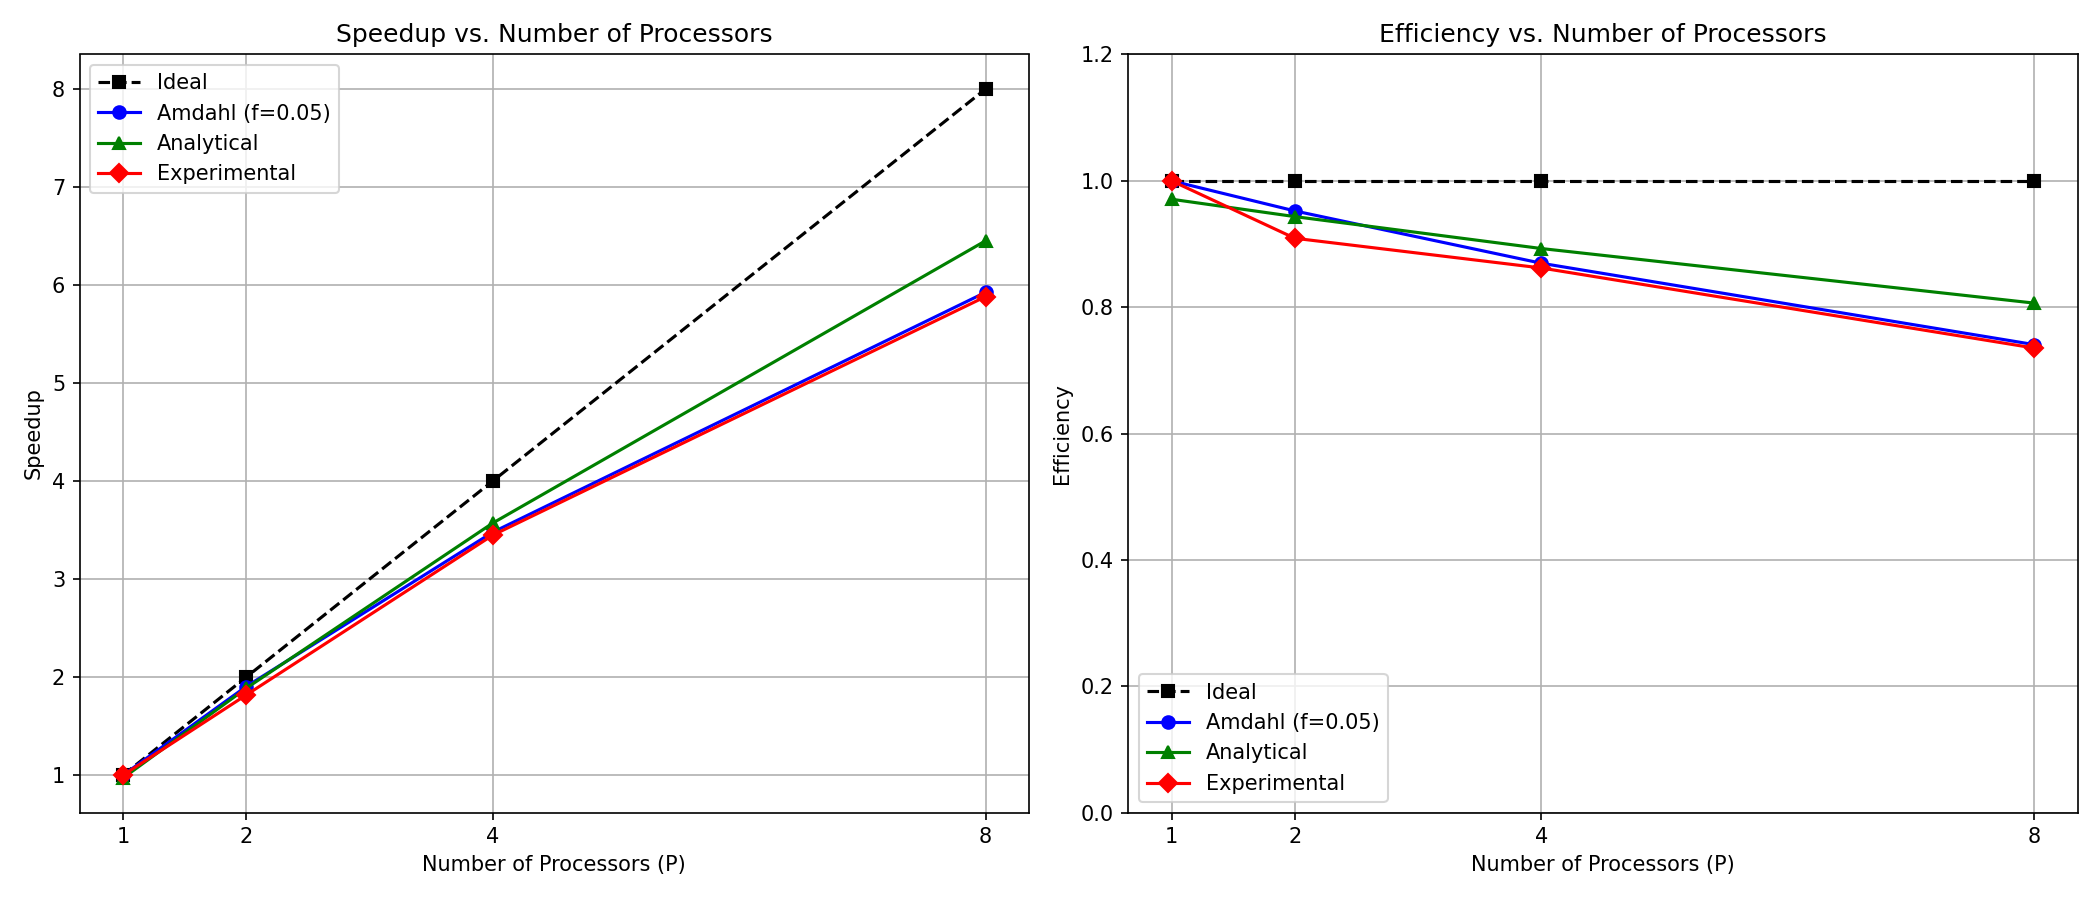
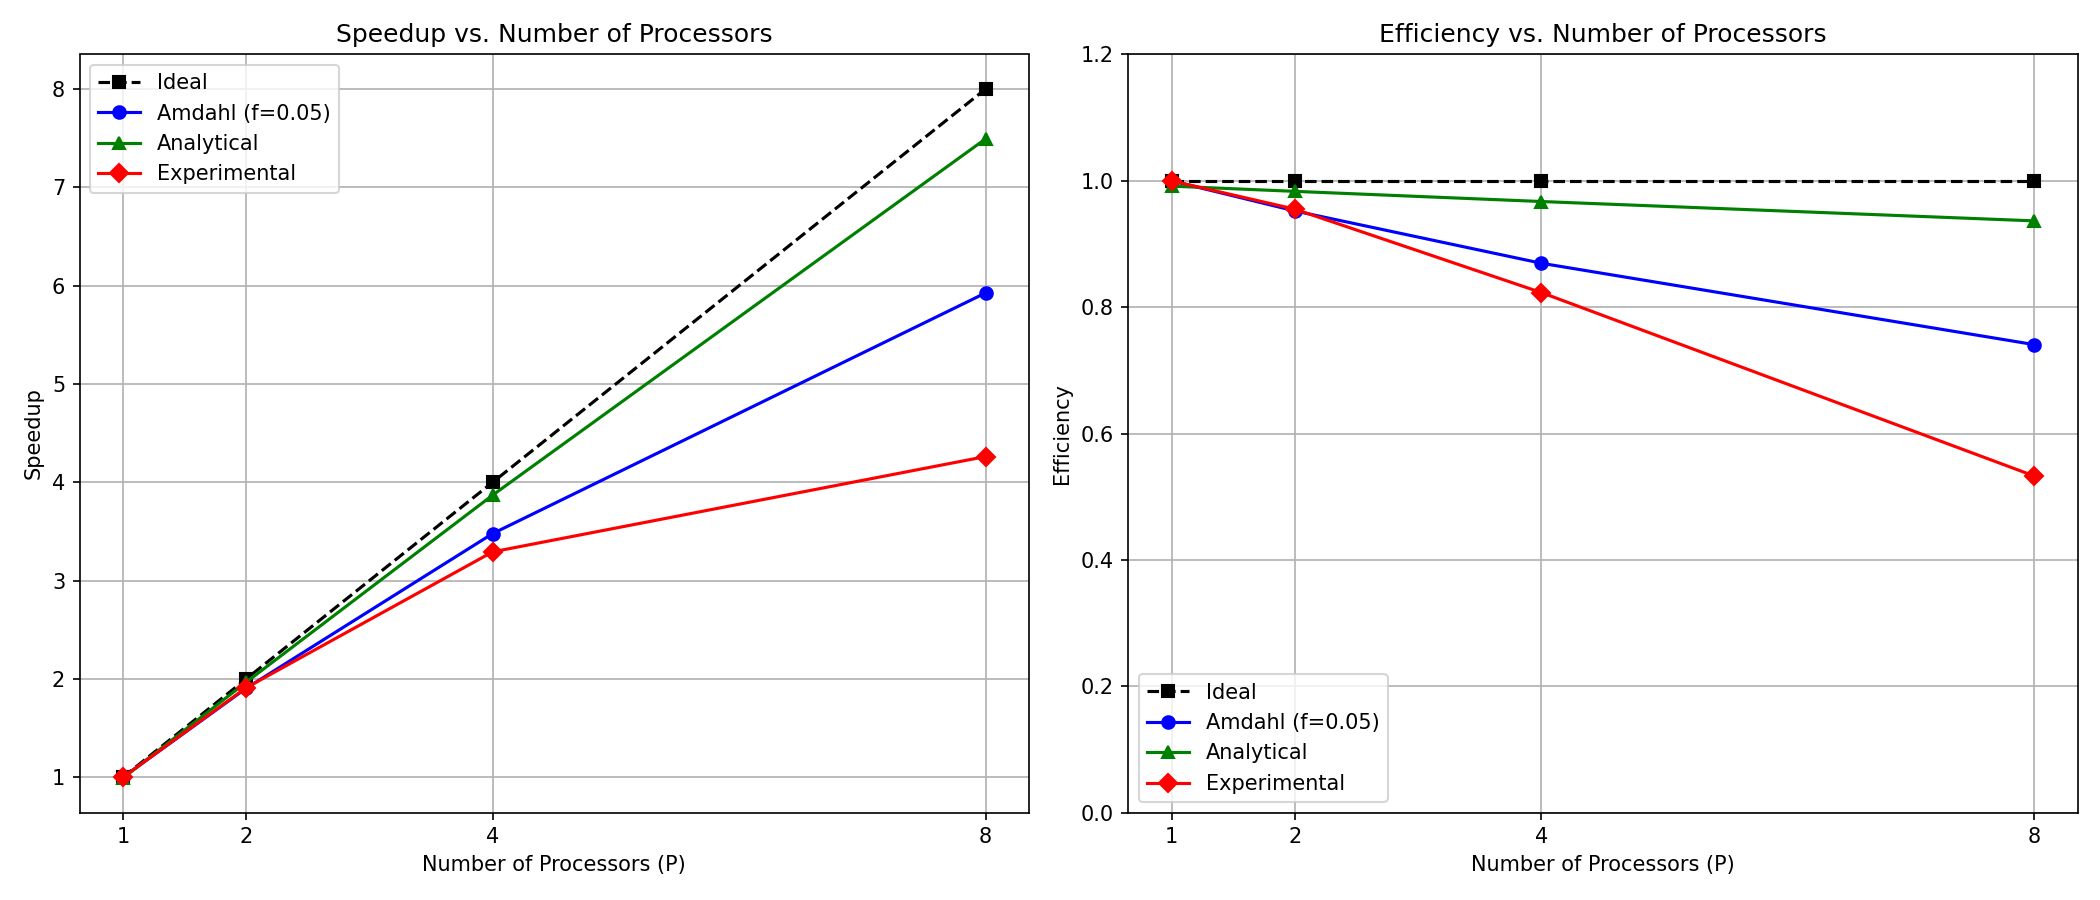
Remove notes and update performance plotting script with new metrics and improved visualization

diff --git a/plot_performance.py b/plot_performance.py
@@ -1,64 +1,43 @@
 import numpy as np
 import matplotlib.pyplot as plt
-
-# ===== ใส่ค่า runtime จากการทดลองของคุณ =====
-T_seq = 10.0   # เวลา sequential (วินาที) - แก้ตามผลจริง
-
-# Experimental runtimes [P=1, P=2, P=4, P=8]
-T_exp = [10.0, 5.5, 2.9, 1.7]   # แก้ตามผลจริง
-
-# ============================================
-P_values = [1, 2, 4, 8]
-
-# --- Speedup Experimental ---
-S_exp = [T_seq / t for t in T_exp]
-
-# --- Ideal Speedup ---
-S_ideal = P_values
-
-# --- Amdahl's Law ---
-# ประมาณ f (fraction sequential) จาก overhead เช่น 5%
-f = 0.05
-S_amdahl = [1 / (f + (1 - f) / p) for p in P_values]
-
-# --- Analytical Model ---
-# T_parallel = T_comm + T_comp/p  (สมมติ T_comm = 0.3s คงที่)
-T_comm = 0.3   # overhead การสื่อสาร (แก้ตามผลจริง)
-S_analytical = [T_seq / (T_comm + T_seq / p) for p in P_values]
-
-# ===== Plot Speedup =====
+ 
+T_base = 2.621   # parallel P=1 baseline
+T_seq  = 5.912   # sequential (for analytical/Amdahl model input)
+T_exp  = [2.621, 1.372, 0.796, 0.615]
+T_comm = 0.05
+f      = 0.05
+P      = [1, 2, 4, 8]
+ 
+S_exp        = [T_base / t for t in T_exp]
+S_ideal      = P
+S_amdahl     = [1 / (f + (1-f)/p) for p in P]
+S_analytical = [T_seq / (T_comm + T_seq/p) for p in P]
+ 
+E_exp        = [s/p for s,p in zip(S_exp, P)]
+E_ideal      = [1.0]*4
+E_amdahl     = [s/p for s,p in zip(S_amdahl, P)]
+E_analytical = [s/p for s,p in zip(S_analytical, P)]
+ 
 fig, (ax1, ax2) = plt.subplots(1, 2, figsize=(14, 6))
-
-ax1.plot(P_values, S_ideal,    'k--',  marker='s', label='Ideal')
-ax1.plot(P_values, S_amdahl,   'b-o',  label=f"Amdahl (f={f})")
-ax1.plot(P_values, S_analytical,'g-^', label='Analytical')
-ax1.plot(P_values, S_exp,      'r-D',  label='Experimental')
+ 
+ax1.plot(P, S_ideal,      'k--s', label='Ideal')
+ax1.plot(P, S_amdahl,     'b-o',  label='Amdahl (f=0.05)')
+ax1.plot(P, S_analytical, 'g-^',  label='Analytical')
+ax1.plot(P, S_exp,        'r-D',  label='Experimental')
 ax1.set_xlabel('Number of Processors (P)')
 ax1.set_ylabel('Speedup')
 ax1.set_title('Speedup vs. Number of Processors')
-ax1.legend()
-ax1.grid(True)
-ax1.set_xticks(P_values)
-
-# ===== Plot Efficiency =====
-E_ideal      = [1.0] * len(P_values)
-E_amdahl     = [s / p for s, p in zip(S_amdahl, P_values)]
-E_analytical = [s / p for s, p in zip(S_analytical, P_values)]
-E_exp        = [s / p for s, p in zip(S_exp, P_values)]
-
-ax2.plot(P_values, E_ideal,      'k--',  marker='s', label='Ideal')
-ax2.plot(P_values, E_amdahl,     'b-o',  label=f"Amdahl (f={f})")
-ax2.plot(P_values, E_analytical, 'g-^',  label='Analytical')
-ax2.plot(P_values, E_exp,        'r-D',  label='Experimental')
+ax1.set_xticks(P); ax1.legend(); ax1.grid(True)
+ 
+ax2.plot(P, E_ideal,      'k--s', label='Ideal')
+ax2.plot(P, E_amdahl,     'b-o',  label='Amdahl (f=0.05)')
+ax2.plot(P, E_analytical, 'g-^',  label='Analytical')
+ax2.plot(P, E_exp,        'r-D',  label='Experimental')
 ax2.set_xlabel('Number of Processors (P)')
 ax2.set_ylabel('Efficiency')
 ax2.set_title('Efficiency vs. Number of Processors')
-ax2.legend()
-ax2.grid(True)
-ax2.set_xticks(P_values)
-ax2.set_ylim(0, 1.2)
-
+ax2.set_xticks(P); ax2.set_ylim(0, 1.2); ax2.legend(); ax2.grid(True)
+ 
 plt.tight_layout()
 plt.savefig('performance_graphs.png', dpi=150)
 plt.show()
-print("Saved: performance_graphs.png")

diff --git a/README.md b/README.md
@@ -1,0 +1,80 @@
+# Parallel N-Queen Solver (MPI + OpenMP)
+
+## Overview
+This project implements a parallel solver for the N-Queen problem using a hybrid MPI + OpenMP model. The goal is to explore the performance and scalability of parallel backtracking algorithms in HPC environments.
+
+**Compares:**
+- Sequential implementation
+- Hybrid parallel implementation (MPI + OpenMP)
+
+**Performance Analysis:**
+- Speedup
+- Parallel efficiency
+- Amdahl's Law
+- Analytical performance model
+
+
+## File Description
+| File | Description |
+|------|-------------|
+| `nqueens_sequential.c` | Sequential backtracking implementation |
+| `nqueens_parallel.c` | Hybrid MPI + OpenMP implementation |
+| `run_experiments.sh` | Script for running experiments |
+| `Parallel_NQueen_Report.pdf` | Final project report |
+| `README.md` | Project documentation |
+
+## Compilation
+### Sequential Version
+```bash
+gcc -O3 nqueens_sequential.c -o nqueens_seq
+```
+
+### Parallel Version (MPI + OpenMP)
+```bash
+mpicc -O3 -fopenmp nqueens_parallel.c -o nqueens_parallel
+```
+
+## Running the Program
+### Sequential
+```bash
+./nqueens_seq 14
+```
+
+### Parallel Examples
+- **1 Process, 1 Thread:** `OMP_NUM_THREADS=1 mpirun -np 1 ./nqueens_parallel 14`
+- **1 Process, 2 Threads:** `OMP_NUM_THREADS=2 mpirun -np 1 ./nqueens_parallel 14`
+- **2 Processes, 2 Threads (4 Workers):** `OMP_NUM_THREADS=2 mpirun -np 2 ./nqueens_parallel 14`
+- **4 Processes, 2 Threads (8 Workers):** `OMP_NUM_THREADS=2 mpirun -np 4 ./nqueens_parallel 14`
+
+## Experimental Configuration
+**Configurations:**
+| MPI Processes | OpenMP Threads | Total Workers |
+|---------------|----------------|---------------|
+| 1 | 1 | 1 |
+| 1 | 2 | 2 |
+| 2 | 2 | 4 |
+| 4 | 2 | 8 |
+
+**Problem Size:** N = 14  
+**Expected Solutions:** 365,596
+
+## Parallelization Strategy
+- Search space partitioned by first-row queen placement
+- Each first-row column forms an independent subtree
+- MPI distributes tasks across processes:
+  - Rank 0 → columns 0,4,8,12
+  - Rank 1 → columns 1,5,9,13
+  - Rank 2 → columns 2,6,10
+  - Rank 3 → columns 3,7,11
+- OpenMP threads explore subtrees in parallel with dynamic scheduling
+
+## Performance Analysis
+**Metrics Analyzed:**
+- Execution time
+- Speedup
+- Parallel efficiency
+- Amdahl's Law prediction
+- Analytical performance model
+
+**Experiments:** P = 1, 2, 4, 8 workers  
+Results show decreasing runtime with more workers, but efficiency declines due to communication overhead and load imbalance.
